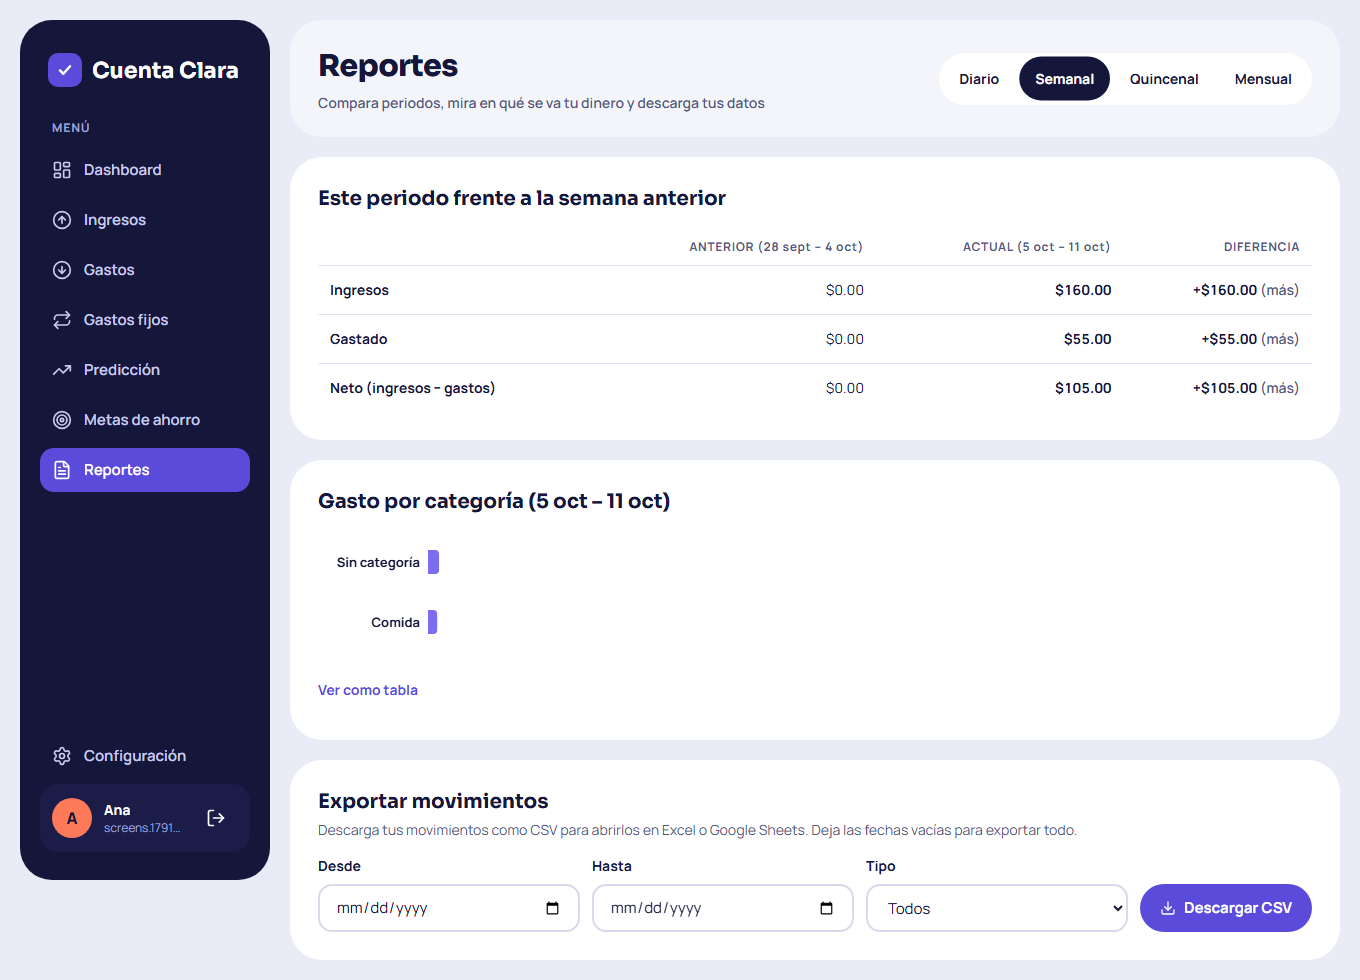
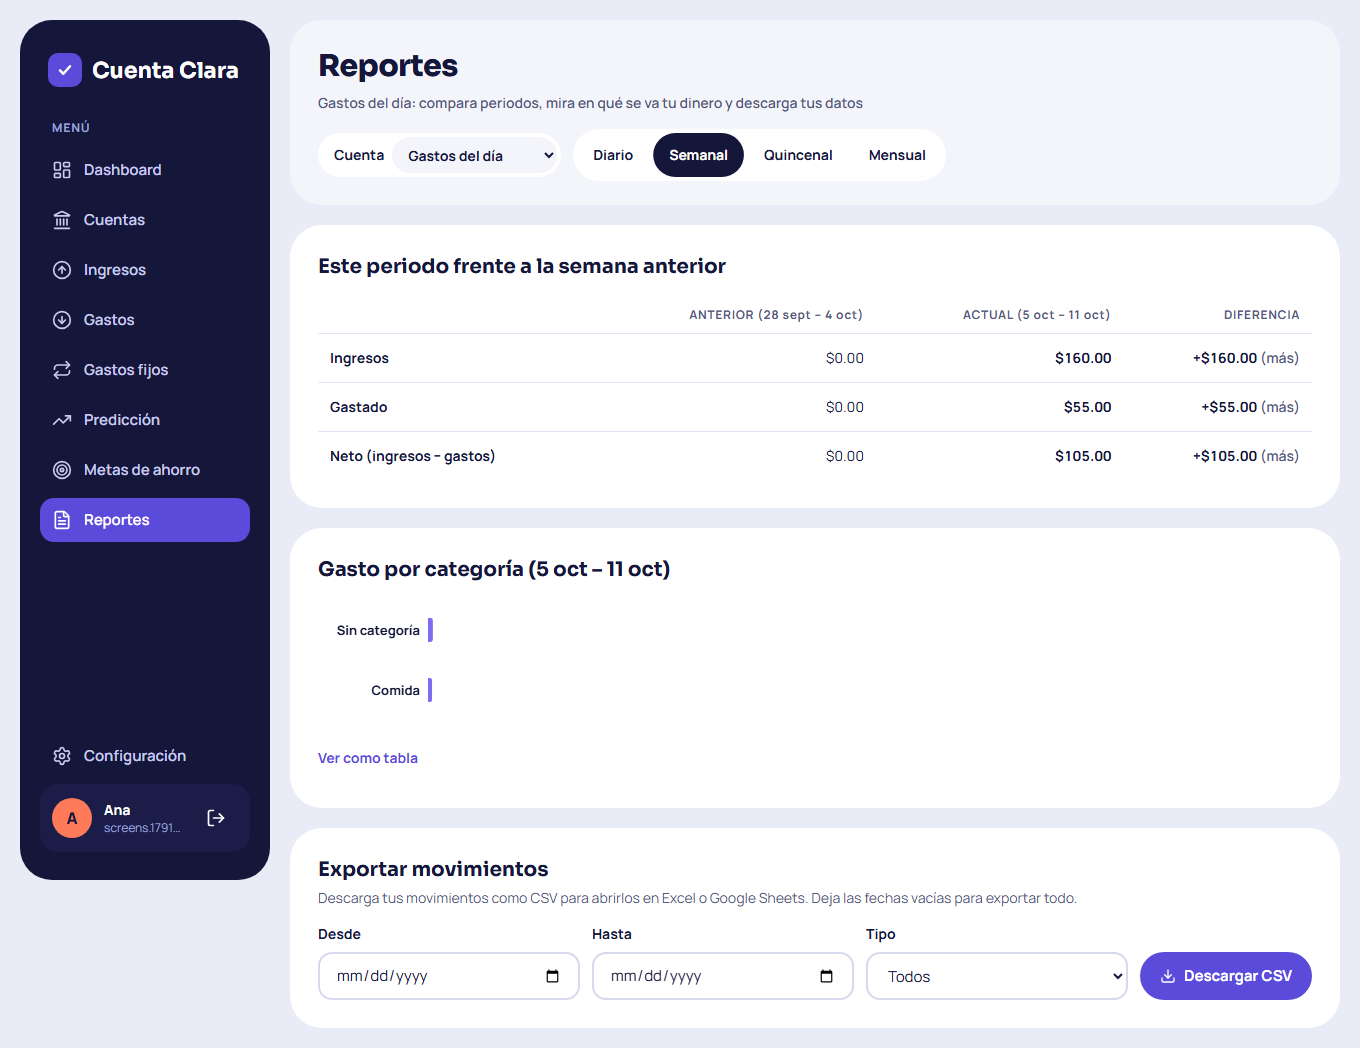
docs: document multiple accounts, transfers and their security

diff --git a/backend/README.md b/backend/README.md
@@ -63,20 +63,24 @@ Nunca se modifica la base a mano: todo cambio de esquema es una migración.
 | `POST` | `/api/v1/auth/refresh` | Rota la sesión (requiere `X-CSRF-Token`) |
 | `POST` | `/api/v1/auth/logout` | Revoca la sesión y borra las cookies (requiere `X-CSRF-Token`) |
 | `GET` | `/api/v1/auth/me` | Usuario de la sesión actual |
-| `GET` / `PUT` | `/api/v1/settings` | Monto inicial, moneda, periodo de ingreso, límite de gasto |
+| `GET` / `PUT` | `/api/v1/settings` | Fecha desde la que se llevan las cuentas, moneda, periodo de ingreso, límite de gasto |
+| `GET` / `POST` | `/api/v1/accounts` | Cuentas (nombre, tipo, saldo inicial, principal) con su saldo a `?date=`; máximo 10 |
+| `PUT` / `DELETE` | `/api/v1/accounts/{id}` | Cambiar la principal pasa el rol; no se borra la principal ni una cuenta con datos |
+| `GET` / `POST` | `/api/v1/transfers` | Dinero movido entre dos cuentas propias (`?account_id=` para filtrar) |
+| `DELETE` | `/api/v1/transfers/{id}` | |
 | `GET` / `POST` | `/api/v1/categories` | Predeterminadas + propias / crear propia |
 | `PUT` / `DELETE` | `/api/v1/categories/{id}` | Solo categorías propias (las predeterminadas son de solo lectura) |
 | `GET` / `POST` | `/api/v1/incomes` | Ingresos recurrentes |
 | `GET` / `PUT` / `DELETE` | `/api/v1/incomes/{id}` | |
 | `GET` / `POST` | `/api/v1/fixed-expenses` | Gastos fijos |
 | `GET` / `PUT` / `DELETE` | `/api/v1/fixed-expenses/{id}` | |
-| `GET` / `POST` | `/api/v1/transactions` | Movimientos. Filtros: `from`, `to`, `type`, `category_id`; paginación `limit` (≤ 100) y `offset` |
+| `GET` / `POST` | `/api/v1/transactions` | Movimientos. Filtros: `from`, `to`, `type`, `category_id`, `account_id`; paginación `limit` (≤ 100) y `offset` |
 | `GET` / `PUT` / `DELETE` | `/api/v1/transactions/{id}` | |
 | `GET` | `/api/v1/dashboard` | Saldo, ingresos y gastos del periodo, límite, serie de 6 periodos, próximos gastos fijos y últimos movimientos. Parámetros: `period` (`daily`/`weekly`/`biweekly`/`monthly`) y `date` |
-| `GET` | `/api/v1/forecast` | Saldo proyectado por periodo. Parámetros: `periods` (1–12, por defecto 4), `period`, `date` y `estimator` (`average` o `trend`) |
+| `GET` | `/api/v1/forecast` | Saldo proyectado por periodo. Parámetros: `periods` (1–12, por defecto 4), `period`, `date`, `estimator` (`average` o `trend`) y `account` (id o `all`; por defecto la principal) |
 | `GET` / `POST` | `/api/v1/savings-goals` | Metas de ahorro con progreso y plan por periodo (`?date=` para el plan) |
 | `PUT` / `DELETE` | `/api/v1/savings-goals/{id}` | |
-| `POST` | `/api/v1/savings-goals/{id}/contributions` | Aportar (monto positivo) o retirar (negativo); nunca por debajo de 0 |
+| `POST` | `/api/v1/savings-goals/{id}/contributions` | Aportar (monto positivo) o retirar (negativo); nunca por debajo de 0. Con `from_account_id` el dinero se mueve entre esa cuenta y la de la meta |
 | `GET` | `/api/v1/transactions/export` | CSV de movimientos con los mismos filtros que la lista |
 
 Todas las rutas de datos requieren sesión y solo ven los datos del usuario autenticado. Un recurso ajeno responde `404`.

diff --git a/docs/decisions.md b/docs/decisions.md
@@ -317,3 +317,30 @@ Recharts funciona con la CSP estricta (D-033): la gráfica se renderiza en el cl
 Los testimonios reales quedan para el futuro, cuando haya personas que den su consentimiento.
 
 **Lección técnica:** los estilos de `@layer components` pierden contra las utilidades de Tailwind (`flex`, `[mask-image:…]`). Para ocultar algo con movimiento reducido hay que usar las variantes `motion-reduce:`, no reglas en ese *layer*. Lo detectó la prueba E2E.
+
+## D-061 · Varias cuentas por usuario
+
+**Por qué.** Mucha gente separa su dinero como en el banco: una cuenta para los gastos del día y otra para el ahorro, a veces una de fondos. Con un solo saldo, los $400 ahorrados se veían como dinero para gastar y los gastos del día caían sobre el ahorro. Ahora cada usuario tiene de 1 a 10 cuentas.
+
+- **Solo un nombre y un tipo** (gastos del día, ahorro, fondos o inversión, otro). Nunca número de cuenta, banco, tarjeta ni clave: la app necesita distinguirlas, no acceder a ellas.
+  - Como protección extra, un nombre con más de 5 dígitos se rechaza tanto en el formulario como en la API ("no escribas números de cuenta").
+- **Una cuenta principal, siempre exactamente una** (índice único parcial en la BD).
+  - Es la de gastos del día: el dashboard abre en ella y el límite de gasto se mide ahí.
+  - El registro la crea ("Cuenta principal").
+  - Se cambia marcando otra como principal; no se puede quitar el rol sin dárselo a otra ni borrarla.
+- **El saldo inicial pasó de los ajustes a cada cuenta.**
+  - `balance_as_of` sigue siendo uno solo: el día desde el que se llevan las cuentas.
+  - La migración le da a cada usuario existente su "Cuenta principal" con el saldo que tenía y le asigna todos sus datos.
+- **Cada movimiento, ingreso y gasto fijo pertenece a una cuenta.**
+  - Si no se indica, va a la principal al crear y no cambia al editar.
+  - Una cuenta ajena da 404, igual que un id inexistente.
+- **Transferencias entre cuentas.** Cambian el saldo de ambas, pero no son ingreso ni gasto: no cuentan para el límite ni para las categorías. Vistas en "Todas", se anulan.
+- **Dashboard, predicción y reportes por cuenta** (`?account=<id>` o `?account=all`).
+  - El dashboard muestra arriba una tarjeta por cuenta con su saldo, y el filtro queda en la URL.
+  - En una cuenta de ahorro no se muestra el límite de gasto, que pertenece a la principal.
+- **Metas ligadas a una cuenta.** Aportar mueve el dinero de verdad: una transferencia desde la cuenta elegida (por defecto la principal) a la cuenta de la meta, en la misma transacción que actualiza lo ahorrado. Retirar lo devuelve. También se puede "solo registrar" sin mover dinero.
+- **Borrar una cuenta** solo se permite si no tiene movimientos, ingresos, gastos fijos, metas ni transferencias. Así nunca se pierde historial sin querer.
+- **Onboarding:**
+  - El paso 1 pregunta por las cuentas (nombre, tipo, saldo de hoy) y cuál es la de gastos del día.
+  - El ingreso pregunta a qué cuenta llega.
+  - Los gastos fijos salen de la principal, y se puede cambiar después.

diff --git a/README.md b/README.md
@@ -12,9 +12,9 @@ Proyecto personal de portafolio: backend en FastAPI, frontend en Next.js, Postgr
 | --- | --- | --- |
 | ![Landing](docs/screenshots/landing.png) | ![Registro con requisitos de contraseña en vivo](docs/screenshots/registro.png) | ![Predicción de saldo por semana](docs/screenshots/prediccion.png) |
 
-| Metas de ahorro | Reportes | Móvil |
-| --- | --- | --- |
-| ![Metas de ahorro con progreso](docs/screenshots/metas.png) | ![Reportes: comparación y gasto por categoría](docs/screenshots/reportes.png) | ![Dashboard en móvil](docs/screenshots/dashboard-movil.png) |
+| Cuentas | Metas de ahorro | Reportes | Móvil |
+| --- | --- | --- | --- |
+| ![Cuentas: gastos del día y ahorro, con el dinero movido entre ellas](docs/screenshots/cuentas.png) | ![Metas de ahorro con progreso](docs/screenshots/metas.png) | ![Reportes: comparación y gasto por categoría](docs/screenshots/reportes.png) | ![Dashboard en móvil](docs/screenshots/dashboard-movil.png) |
 
 ## ¿Qué hace?
 
@@ -32,7 +32,9 @@ Ejemplo: monto inicial $100, gasto semanal $30 → quedan $70. Si ese periodo in
 - **Ingresos y gastos fijos recurrentes**, que se suman y restan solos en sus fechas. Se pueden pausar sin borrarlos.
 - **Movimientos** sueltos con filtros por fecha, tipo y categoría.
 - **Predicción** del saldo para los próximos 4, 8 o 12 periodos.
-- **Configuración:** monto inicial, moneda, periodo, límite y categorías propias.
+- **Varias cuentas** (gastos del día, ahorro, fondos…) con su propio saldo. Solo un nombre: nunca números de cuenta.
+- **Mover dinero entre cuentas** sin que cuente como gasto. Dashboard, predicción y reportes por cuenta o de todas.
+- **Configuración:** moneda, periodo, límite y categorías propias.
 - **Metas de ahorro** con progreso y cuánto apartar por periodo para llegar a la fecha.
 - **Alerta al 80 % del límite** y **comparación con el periodo anterior** en el dashboard.
 - **Gasto por categoría** y **reportes** que comparan periodos.
@@ -131,6 +133,7 @@ cuenta-clara/
 - [x] **Fase 7:** resto de pantallas
 - [x] **Fase 8:** pulido, accesibilidad, E2E y documentación
 - [x] **Fase 9:** metas de ahorro, alertas al 80 % del límite, comparación con el periodo anterior, gasto por categoría, exportar a CSV y predicción con regresión lineal
+- [x] **Cuentas múltiples:** gastos, ahorro y fondos por separado, transferencias entre cuentas y metas que mueven dinero
 
 ## Calidad y pruebas
 

diff --git a/docs/testing.md b/docs/testing.md
@@ -20,6 +20,7 @@ pytest                   # requiere TEST_DATABASE_URL (se borra en cada corrida)
 - **API** de cada recurso, con validación y casos borde.
 - **Seguridad:** tokens falsificados, sin firma o expirados; CSRF; rate limiting; bloqueo temporal; reutilización de refresh tokens; cabeceras y CORS.
 - **Fase 9** (`test_phase9_calculations.py`, `test_phase9_api.py`): plan de metas por periodo, alerta al 80 %, periodo anterior, gasto por categoría, regresión lineal (pendiente, R², mínimo de puntos, nunca negativa) y CSV con inyección de fórmulas neutralizada.
+- **Cuentas** (`test_accounts.py`): saldos separados, nombres con números de cuenta rechazados, una sola principal, límite de 10, borrado seguro, transferencias que no cuentan como gasto, dashboard y predicción por cuenta, metas que mueven dinero y cuentas ajenas invisibles.
 - **Anti-IDOR** (`test_idor.py`): otro usuario no puede leer, editar, borrar ni listar recursos ajenos. Se verificó rompiendo el filtro a propósito y viendo fallar los tests.
 - **Migraciones:** los modelos coinciden con las migraciones, y estas se pueden revertir y volver a aplicar.
 
@@ -48,6 +49,7 @@ E2E_BASE_URL=http://localhost:3000 npm run e2e
   - El periodo elegido queda en la URL.
   - Pausar un ingreso actualiza el saldo.
   - Crea una meta de ahorro, aporta y ve el progreso; retirar de más muestra el error de la API.
+  - Crea una cuenta de ahorro, mueve $50 desde la de gastos y cambia el dashboard a esa cuenta.
   - En Reportes compara periodos y descarga un CSV cuyo contenido se verifica.
   - La predicción cambia a "Tendencia" y explica el resultado.
   - Visita todas las pantallas y cierra sesión.

diff --git a/docs/security.md b/docs/security.md
@@ -81,6 +81,8 @@ Exentos: `login` y `register`, que crean la sesión y por eso aún no hay cookie
 - **Todas las consultas de datos financieros pasan por `app/services/ownership.py`**, que siempre añade `WHERE user_id = <usuario autenticado>`. Si el recurso es de otro usuario, la respuesta es `404`, idéntica a la de un id inexistente, para no confirmar que existe.
 - **Ningún request acepta `user_id` ni `id`** (`extra="forbid"`): el dueño siempre sale de la sesión.
 - **Referencias cruzadas:** un gasto o transacción solo puede apuntar a una categoría predeterminada o propia. Usar la categoría de otro usuario da `422 La categoría no existe.`
+- **Cuentas:** cada `account_id` que llega (en movimientos, ingresos, gastos fijos, metas, transferencias o en `?account=` del dashboard) se comprueba contra las cuentas del usuario. Una cuenta ajena da `404`. Cubierto por `test_another_users_account_is_invisible`, que intenta ocho usos distintos de la cuenta de otra persona y verifica que su saldo no cambia.
+- **Sin datos bancarios:** las cuentas guardan solo un nombre y un tipo. Nunca número de cuenta, tarjeta ni clave. Un nombre con más de 5 dígitos se rechaza en el formulario y en la API, para que nadie guarde un número de cuenta por error.
 - **`tests/test_idor.py`** prueba, para cada recurso, que otro usuario no puede leerlo, editarlo, borrarlo ni verlo en listados, y que el original queda intacto. También cubre filtrar por la categoría de otro y enviar un `user_id` ajeno.
 - **Los tests se validaron rompiendo el filtro a propósito:** sin `user_id` en la consulta, los tests de IDOR fallan.
 

diff --git a/docs/calculations.md b/docs/calculations.md
@@ -28,6 +28,29 @@ Semana del lunes 5 de octubre: monto inicial **$100**, gasto de **$30**, ingreso
 
 Está cubierto por `test_spec_example_100_minus_30_plus_160_is_230`, en dos variantes: con el $30 como transacción y como gasto fijo. Además, `test_dashboard_spec_example` lo verifica de punta a punta por la API.
 
+## Cuentas y transferencias
+
+Todo se calcula sobre un **alcance**: una cuenta (por defecto la principal) o todas (`?account=all`).
+
+- El saldo inicial es la suma de los saldos iniciales de las cuentas del alcance, y solo cuentan sus movimientos, ingresos y gastos fijos.
+- Una **transferencia** que entra o sale del alcance cambia su saldo, pero **no es ingreso ni gasto**: no suma al "Gastado", no consume el límite y no aparece en categorías.
+- Si ambas cuentas están dentro del alcance (vista "Todas"), la transferencia se anula.
+- El límite de gasto se aplica cuando la cuenta principal está en el alcance: sola o dentro de "Todas".
+
+```
+saldo = saldo inicial + ingresos − gastos fijos − gasto variable + transferencias que entran − transferencias que salen
+```
+
+Ejemplo: "Gastos del día" con $100 y "Ahorro" con $400. Se pasan **$50** de Gastos a Ahorro:
+
+| Vista | Saldo | Gastado | Transferencias |
+| --- | --- | --- | --- |
+| Gastos del día | $50 | $0 | −$50 |
+| Ahorro | $450 | $0 | +$50 |
+| Todas | $500 | $0 | $0 (se anula) |
+
+Cubierto por `test_a_transfer_moves_money_without_counting_as_spending` y `test_dashboard_opens_on_the_primary_account_and_can_switch`.
+
 ## Periodos
 
 | Periodo | Ventana |
